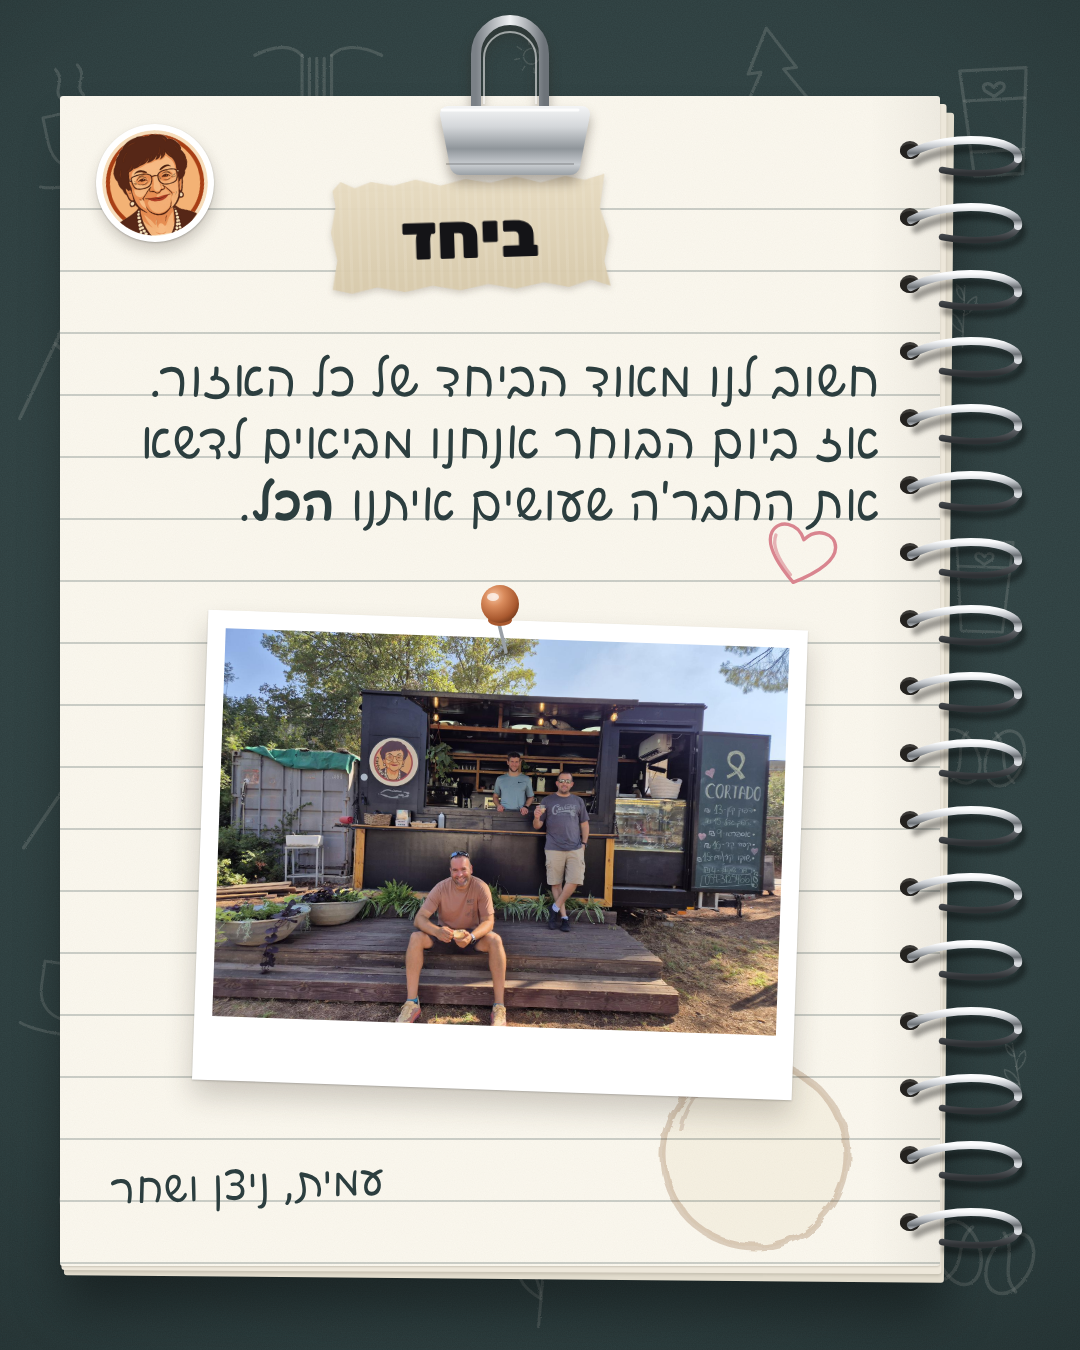
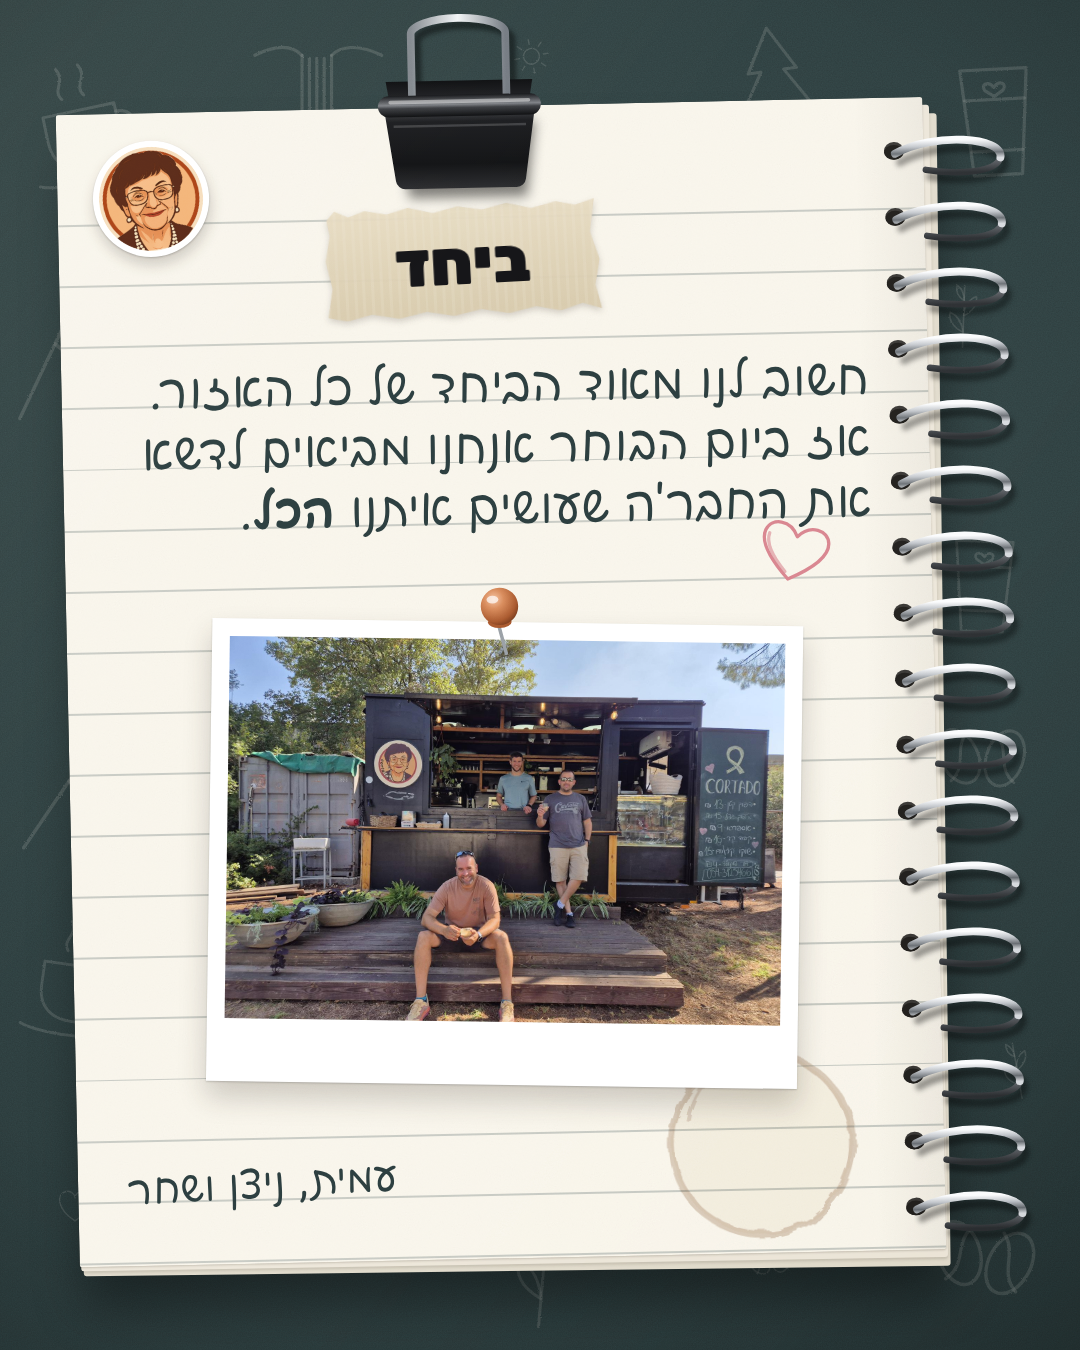
Notebook carousel: clip grips the page edge, phone-photo look
Binder clip with the back jaw on the desk and the rolled lip on the paper
edge; slight tilt, side light and sensor grain over the whole frame.

Claude-Session: https://claude.ai/code/session_013haAdpctRrk92YNsAEXH9q

Changed region(s): [[0.0306, 0.0, 0.9472, 0.9644], [0.0306, 0.3422, 0.3667, 0.9644], [0.9167, 0.0933, 0.9472, 0.1244]]

diff --git a/toolkit/templates/notebook.js b/toolkit/templates/notebook.js
@@ -30,14 +30,23 @@
     <linearGradient id="wb" x1="0" y1="0" x2="0" y2="1"><stop offset="0" stop-color="#6b6f74"/><stop offset="1" stop-color="#2e3134"/></linearGradient>
   </defs>${g}</svg>`);
 
-  if ("clip" in b.dataset) add(`<svg class="clip" width="180" height="170" viewBox="0 0 180 170"><defs>
-    <linearGradient id="cb" x1="0" y1="0" x2="0" y2="1"><stop offset="0" stop-color="#f4f5f6"/><stop offset=".3" stop-color="#d4d7da"/><stop offset=".62" stop-color="#8f959a"/><stop offset=".85" stop-color="#c9cdd1"/><stop offset="1" stop-color="#9aa0a5"/></linearGradient>
-    <linearGradient id="cw" x1="0" y1="0" x2="1" y2="0"><stop offset="0" stop-color="#7b8187"/><stop offset=".5" stop-color="#eef0f2"/><stop offset="1" stop-color="#6d7379"/></linearGradient></defs>
-    <path d="M56 92 V40 a34 34 0 0 1 68 0 V92" fill="none" stroke="url(#cw)" stroke-width="10" stroke-linecap="round"/>
-    <path d="M64 90 V44 a26 26 0 0 1 52 0 V90" fill="none" stroke="rgba(255,255,255,.55)" stroke-width="2"/>
-    <path d="M18 92 h144 a8 8 0 0 1 8 9 l-10 52 a10 10 0 0 1 -10 8 h-110 a10 10 0 0 1 -10 -8 l-10 -52 a8 8 0 0 1 8 -9z" fill="url(#cb)"/>
-    <path d="M22 96 h136" stroke="rgba(255,255,255,.85)" stroke-width="3" stroke-linecap="round"/>
-    <path d="M26 150 h128" stroke="rgba(0,0,0,.18)" stroke-width="2"/></svg>`);
+  // binder clip biting the top edge of the paper: back jaw on the desk, rolled lip on the edge (svg y 84 = paper top), front plate on the page
+  if ("clip" in b.dataset) add(`<svg class="clip" width="240" height="240" viewBox="0 0 200 200"><defs>
+    <filter id="cl1" x="-30%" y="-30%" width="160%" height="160%"><feGaussianBlur stdDeviation="5"/></filter>
+    <filter id="cl2" x="-30%" y="-30%" width="160%" height="160%"><feGaussianBlur stdDeviation="1.6"/></filter>
+    <linearGradient id="cp" x1="0" y1="0" x2="0" y2="1"><stop offset="0" stop-color="#4a4c50"/><stop offset=".18" stop-color="#1c1d20"/><stop offset=".7" stop-color="#121315"/><stop offset="1" stop-color="#2a2b2e"/></linearGradient>
+    <linearGradient id="cl" x1="0" y1="0" x2="0" y2="1"><stop offset="0" stop-color="#16171a"/><stop offset=".45" stop-color="#7c7f84"/><stop offset=".6" stop-color="#3a3c40"/><stop offset="1" stop-color="#0e0f11"/></linearGradient>
+    <linearGradient id="cj" x1="0" y1="0" x2="0" y2="1"><stop offset="0" stop-color="#0f1012"/><stop offset="1" stop-color="#2b2c30"/></linearGradient>
+    <linearGradient id="cw" x1="0" y1="0" x2="1" y2="0"><stop offset="0" stop-color="#80868c"/><stop offset=".5" stop-color="#f2f4f6"/><stop offset="1" stop-color="#727880"/></linearGradient></defs>
+    <path d="M60 74 L60 22 a40 13 0 0 1 80 0 L140 74" fill="none" stroke="rgba(0,0,0,.45)" stroke-width="7" filter="url(#cl2)" transform="translate(5 6)"/>
+    <path d="M42 88 h116 l-8 64 h-100z" fill="rgba(0,0,0,.5)" filter="url(#cl1)" transform="translate(6 9)"/>
+    <path d="M38 62 h124 l-4 24 h-116z" fill="url(#cj)"/>
+    <path d="M60 74 L60 22 a40 13 0 0 1 80 0 L140 74" fill="none" stroke="url(#cw)" stroke-width="6.5" stroke-linecap="round"/>
+    <path d="M36 84 h128 l-9 62 a8 8 0 0 1 -8 7 h-94 a8 8 0 0 1 -8 -7z" fill="url(#cp)"/>
+    <path d="M44 100 h112" stroke="rgba(255,255,255,.16)" stroke-width="2"/>
+    <rect x="31" y="74" width="138" height="18" rx="9" fill="url(#cl)"/>
+    <rect x="40" y="78" width="120" height="3" rx="1.5" fill="rgba(255,255,255,.45)"/>
+    <path d="M52 154 h96" stroke="rgba(0,0,0,.35)" stroke-width="3" stroke-linecap="round" filter="url(#cl2)"/></svg>`);
 
   const fill = (sel, svg) => document.querySelectorAll(sel).forEach((e, i) => { e.innerHTML = svg(i, e); });
   fill(".pin", (i) => `<svg width="70" height="84" viewBox="0 0 70 84"><defs><radialGradient id="pn${i}" cx=".35" cy=".3" r=".75"><stop offset="0" stop-color="#F6C3A0"/><stop offset=".35" stop-color="#D98B5C"/><stop offset=".8" stop-color="#A9592F"/><stop offset="1" stop-color="#7a3d1e"/></radialGradient><filter id="pb${i}"><feGaussianBlur stdDeviation="3"/></filter></defs>
@@ -51,4 +60,10 @@
     <g filter="url(#st${i})"><circle cx="115" cy="115" r="92" fill="rgba(150,95,45,.05)"/><circle cx="115" cy="115" r="92" fill="none" stroke="rgba(130,80,35,.24)" stroke-width="7"/><path d="M40 90 a80 80 0 0 1 110 -60" fill="none" stroke="rgba(120,70,30,.18)" stroke-width="4"/></g></svg>`);
   fill(".heart", (i, e) => `<svg width="100%" height="100%" viewBox="0 0 70 62" fill="none" stroke="${e.dataset.c || "#D9858F"}" stroke-width="3" stroke-linecap="round" stroke-linejoin="round"><path d="M35 56 C10 38 4 26 6 17 C9 5 26 3 35 17 C44 3 61 5 64 17 C66 26 60 38 35 56 Z"/><path d="M31 50 C13 36 9 26 10 19" opacity=".6"/></svg>`);
   fill(".paperclip", () => `<svg width="70" height="190" viewBox="0 0 70 190"><path d="M44 30 V150 a14 14 0 0 1 -28 0 V40 a22 22 0 0 1 44 0 V160 a28 28 0 0 1 -56 0 V60" fill="none" stroke="#b9bec3" stroke-width="5" stroke-linecap="round"/><path d="M44 30 V150 a14 14 0 0 1 -28 0 V40" fill="none" stroke="rgba(255,255,255,.6)" stroke-width="1.6"/></svg>`);
+  // phone-photo look: the notebook sits slightly askew on the desk, light falls from the top left, a little sensor grain
+  const stage = document.createElement("div"); stage.className = "stage";
+  for (const n of [...b.children]) if (!n.matches("script,.doodles,.desk-noise,.desk-vig")) stage.appendChild(n);
+  b.appendChild(stage);
+  add('<div class="light"></div>');
+  add('<svg class="grain-all" viewBox="0 0 1080 1350" preserveAspectRatio="none"><filter id="sn"><feTurbulence type="fractalNoise" baseFrequency="1.4" numOctaves="1" seed="11"/><feColorMatrix values="0 0 0 0 .5  0 0 0 0 .5  0 0 0 0 .5  0 0 0 .5 0"/></filter><rect width="1080" height="1350" filter="url(#sn)"/></svg>');
 })();

diff --git a/toolkit/templates/notebook.css b/toolkit/templates/notebook.css
@@ -13,8 +13,8 @@ body{background-color:#34494A;background-image:radial-gradient(120% 90% at 50% 4
 .paper .grain{position:absolute;inset:0;width:100%;height:100%;mix-blend-mode:multiply;opacity:.55}
 .paper .edge{position:absolute;right:0;top:0;bottom:0;width:70px;background:linear-gradient(90deg,transparent,rgba(60,50,40,.06))}
 .over{position:absolute;inset:0;width:100%;height:100%;pointer-events:none;z-index:5}
-.clip{position:absolute;left:420px;top:14px;z-index:6;filter:drop-shadow(0 8px 6px rgba(40,30,20,.35))}
-.tapew{position:absolute;left:470px;top:178px;transform:translateX(-50%) rotate(-1.8deg);z-index:4;filter:drop-shadow(0 3px 3px rgba(60,45,30,.22))}
+.clip{position:absolute;left:350px;top:-5px;z-index:6}
+.tapew{position:absolute;left:470px;top:196px;transform:translateX(-50%) rotate(-1.8deg);z-index:4;filter:drop-shadow(0 3px 3px rgba(60,45,30,.22))}
 .tape{background-color:rgba(226,211,180,.94);
   background-image:repeating-linear-gradient(90deg,rgba(255,255,255,.08) 0 3px,transparent 3px 9px),linear-gradient(180deg,rgba(255,255,255,.18),rgba(0,0,0,.04));
   padding:26px 70px 22px;white-space:nowrap;font-weight:900;font-size:64px;line-height:1;color:#141417;
@@ -34,3 +34,6 @@ body{background-color:#34494A;background-image:radial-gradient(120% 90% at 50% 4
   box-shadow:0 1px 2px rgba(0,0,0,.12),0 14px 22px rgba(50,40,30,.18)}
 .ribbon{position:absolute;left:50%;transform:translateX(-50%) rotate(-2deg);background:#141417;color:#F4F1EA;border-radius:999px;padding:14px 56px 20px;
   font-family:"Playpen Sans Hebrew";font-weight:600;font-size:42px;white-space:nowrap;z-index:6;box-shadow:0 10px 24px rgba(0,0,0,.3)}
+.stage{position:absolute;inset:0;transform:rotate(-1.2deg) scale(.985);transform-origin:52% 50%}
+.light{position:absolute;inset:0;pointer-events:none;z-index:20;background:linear-gradient(128deg,rgba(255,250,235,.16) 0%,transparent 38%,transparent 62%,rgba(0,0,0,.16) 100%);mix-blend-mode:soft-light}
+.grain-all{position:absolute;inset:0;width:100%;height:100%;pointer-events:none;z-index:21;mix-blend-mode:overlay;opacity:.18}
